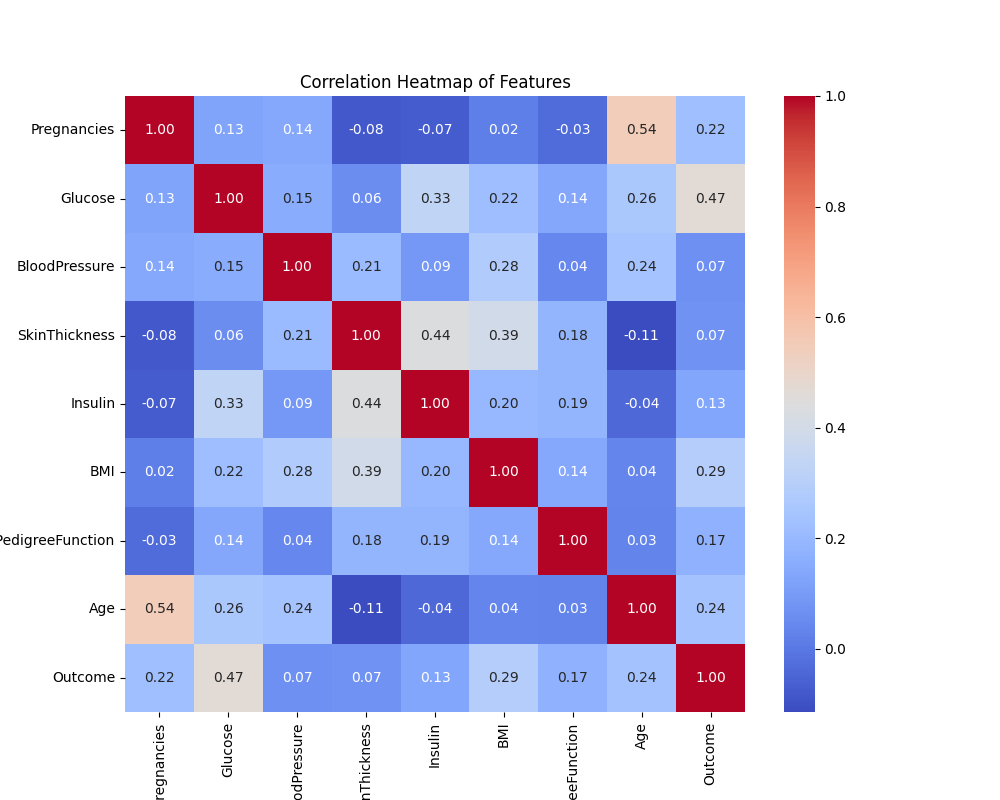
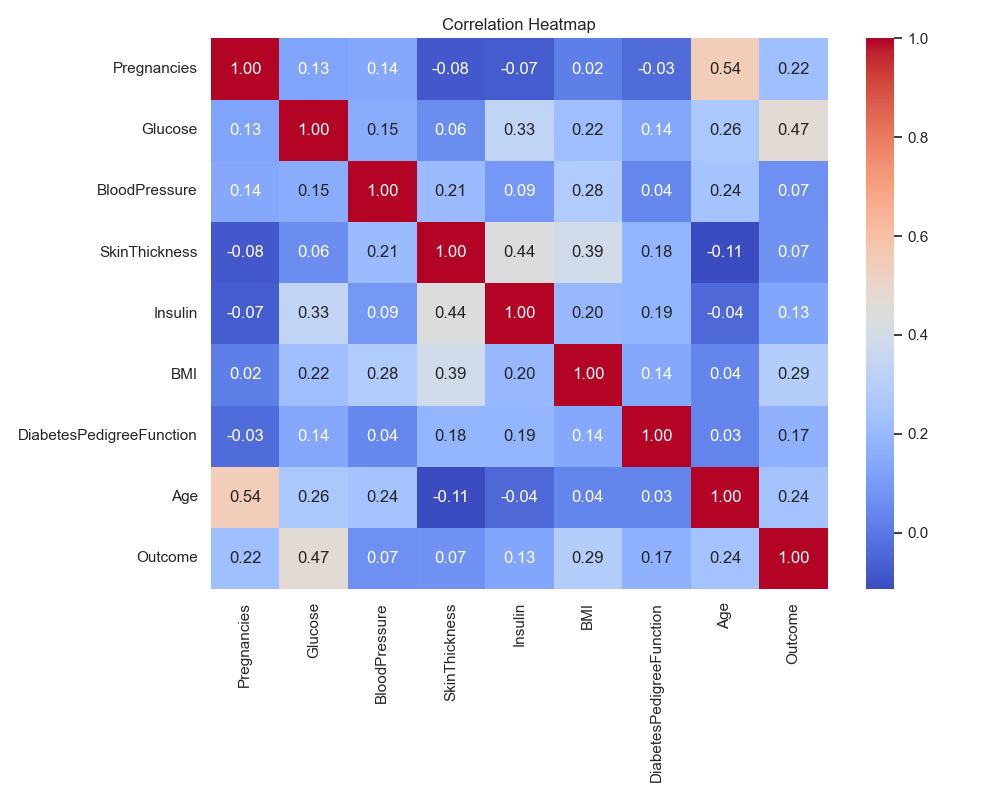
Refactor code structure for improved readability and maintainability

diff --git a/src/data_visualisation.py b/src/data_visualisation.py
@@ -1,95 +1,179 @@
+# data_visualisation.py
+"""
+Visualization utilities used by EDA and reporting.
+
+Functions:
+ - plot_outcome_distribution
+ - plot_correlation_heatmap
+ - plot_pairplot_sample
+ - plot_violin
+ - plot_time_series_if_present
+Each function saves figures to disk and returns the matplotlib Figure object.
+
+Note: pairplots or very large plots sample the data to avoid memory/time issues.
+"""
+
+from typing import Optional, List
+import os
+import logging
 import pandas as pd
 import matplotlib.pyplot as plt
 import seaborn as sns
 
+# Configure seaborn aesthetics (do not set global styles that override user's settings)
+sns.set_theme(style="whitegrid")
+logging.basicConfig(level=logging.INFO, format="%(levelname)s: %(message)s")
 
-def visualize_data(df):
+
+def ensure_dir(path: str) -> None:
+    os.makedirs(os.path.dirname(path) or ".", exist_ok=True)
+
+
+def plot_outcome_distribution(df: pd.DataFrame, target: str = "Outcome", output_path: str = "reports/outcome_distribution.png") -> plt.Figure:
     """
-    Creates visualizations for the diabetes dataset.
+    Plot and save the count distribution of a binary/multi-class target column.
+    """
+    ensure_dir(output_path)
+    plt.figure(figsize=(6, 4))
+    ax = sns.countplot(x=target, data=df)
+    ax.set_title(f"Distribution of {target}")
+    ax.set_xlabel(target)
+    ax.set_ylabel("Count")
+    plt.tight_layout()
+    plt.savefig(output_path)
+    plt.close()
+    logging.info("Saved outcome distribution to %s", output_path)
+    return plt.gcf()
 
-    This function generates various visualizations to explore and analyze
-    the diabetes dataset.
-    The plots are saved in the 'reports' directory for further analysis
-    or reporting.
+
+def plot_correlation_heatmap(df: pd.DataFrame, output_path: str = "reports/correlation_heatmap.png", annot: bool = True) -> plt.Figure:
+    """
+    Plot and save correlation heatmap for numeric DataFrame df.
+    """
+    ensure_dir(output_path)
+    corr = df.corr()
+    plt.figure(figsize=(10, 8))
+    ax = sns.heatmap(corr, annot=annot, cmap="coolwarm", fmt=".2f")
+    ax.set_title("Correlation Heatmap")
+    plt.tight_layout()
+    plt.savefig(output_path)
+    plt.close()
+    logging.info("Saved correlation heatmap to %s", output_path)
+    return plt.gcf()
+
+
+def plot_pairplot_sample(df: pd.DataFrame, cols: List[str], hue: Optional[str] = None, sample_n: int = 1000, output_path: str = "reports/pairplot.png") -> None:
+    """
+    Create a seaborn pairplot on a sampled subset (to reduce memory/time).
+    """
+    ensure_dir(output_path)
+    if len(df) > sample_n:
+        data = df[cols].sample(n=sample_n, random_state=42)
+    else:
+        data = df[cols]
+    try:
+        sns.pairplot(data, hue=hue, diag_kind="kde", corner=True)
+        plt.savefig(output_path)
+        plt.close()
+        logging.info("Saved pairplot to %s", output_path)
+    except Exception as e:
+        logging.exception("Pairplot failed: %s", e)
+
+
+def plot_violin(df: pd.DataFrame, x: str, y: str, output_path: str = "reports/violin.png") -> plt.Figure:
+    """
+    Violin plot (distribution) of y by categories in x.
+    """
+    ensure_dir(output_path)
+    plt.figure(figsize=(8, 6))
+    sns.violinplot(x=x, y=y, data=df)
+    plt.title(f"{y} distribution by {x}")
+    plt.tight_layout()
+    plt.savefig(output_path)
+    plt.close()
+    logging.info("Saved violin plot to %s", output_path)
+    return plt.gcf()
+
+
+def plot_time_series_if_present(df: pd.DataFrame, date_col_candidates: Optional[List[str]] = None, value_cols: Optional[List[str]] = None, output_path: str = "reports/time_series.png") -> None:
+    """
+    If a date-like column exists, aggregate and plot time-series trends for selected numeric columns.
 
     Args:
-        df (pandas.DataFrame): The input DataFrame containing the diabetes
-            dataset.
-
-    Returns:
-        None
-
-    Example:
-        # Assuming df is the DataFrame loaded from a CSV file
-        df = pd.read_csv('./data/diabetes.csv')
-        visualize_data(df)
+      df: input dataframe
+      date_col_candidates: list of possible date column names to check (if None, common names will be checked)
+      value_cols: list of numeric columns to plot (if None, takes first 3 numerics)
     """
-    # Check if the input DataFrame is valid
-    if df is None:
-        print("Error: The input DataFrame is None.")
+    ensure_dir(output_path)
+    # heuristics for date columns:
+    candidates = date_col_candidates or ["date", "datetime", "admission_date", "visit_date", "timestamp"]
+    date_col = None
+    for c in candidates:
+        if c in df.columns:
+            # try parse
+            try:
+                parsed = pd.to_datetime(df[c], errors="coerce")
+                if parsed.notna().sum() > 0:
+                    date_col = c
+                    df = df.copy()
+                    df["_parsed_date"] = parsed
+                    break
+            except Exception:
+                continue
+
+    if date_col is None:
+        logging.info("No parseable date column found; skipping time-series plot.")
         return
 
-    print("\n--- Data Visualisation ---")
+    numerics = value_cols or df.select_dtypes(include="number").columns.tolist()
+    numerics = [c for c in numerics if c != "_parsed_date"]
+    if not numerics:
+        logging.info("No numeric columns to plot in time-series.")
+        return
 
-    # 1. Distribution of the target variable ('Outcome')
-    plt.figure(figsize=(8, 6))
-    sns.countplot(x='Outcome', data=df)
-    plt.title('Distribution of Diabetes Outcome')
-    plt.xlabel('Outcome (0: No Diabetes, 1: Diabetes)')
-    plt.ylabel('Count')
-    plt.savefig('reports/outcome_distribution.png')
-    plt.close()  # Close the plot to avoid display issues when saving
-    print("Outcome distribution plot saved to "
-          "/reports/outcome_distribution.png")
+    # choose up to 3 columns to avoid clutter
+    plot_cols = numerics[:3]
+    ts = df.dropna(subset=["_parsed_date"] + plot_cols).set_index("_parsed_date").sort_index()
+    if ts.empty:
+        logging.info("No rows after parsing dates; skipping time-series.")
+        return
 
-    # 2. Pairplot of selected features colored by Outcome
-    selected_features = [
-        'Pregnancies', 'Glucose', 'BloodPressure', 'SkinThickness',
-        'Insulin', 'BMI', 'Age', 'Outcome'
-    ]
-    sns.pairplot(df[selected_features], hue='Outcome', diag_kind='kde')
-    plt.savefig('reports/pairplot_selected_features.png')
-    plt.close()  # Close the plot
-    print("Pairplot of selected features saved to "
-          "/reports/pairplot_selected_features.png")
-
-    # 3. Violin plot of BMI by Outcome
-    plt.figure(figsize=(8, 6))
-    sns.violinplot(x='Outcome', y='BMI', data=df)
-    plt.title('BMI Distribution by Diabetes Outcome')
-    plt.xlabel('Outcome (0: No Diabetes, 1: Diabetes)')
-    plt.ylabel('BMI')
-    plt.savefig('reports/bmi_distribution_by_outcome.png')
-    plt.close()  # Close the plot
-    print("BMI distribution by Outcome (violin plot) saved to "
-          "/reports/bmi_distribution_by_outcome.png")
-
-    # 4. Heatmap of correlations between features
-    plt.figure(figsize=(10, 8))
-    corr_matrix = df.corr()  # Calculate correlation matrix
-    sns.heatmap(corr_matrix, annot=True, cmap='coolwarm', fmt=".2f")
-    plt.title('Correlation Heatmap of Features')
-    plt.savefig('reports/correlation_heatmap.png')
-    plt.close()  # Close the plot
-    print("Correlation heatmap saved to /reports/correlation_heatmap.png")
+    agg = ts[plot_cols].resample("M").mean()  # monthly mean
+    plt.figure(figsize=(10, 6))
+    for col in plot_cols:
+        plt.plot(agg.index, agg[col], label=col)
+    plt.legend()
+    plt.title("Monthly mean time-series of selected features")
+    plt.xlabel("Date")
+    plt.ylabel("Value")
+    plt.tight_layout()
+    plt.savefig(output_path)
+    plt.close()
+    logging.info("Saved time-series plot to %s", output_path)
 
 
-if __name__ == '__main__':
-    """
-    The entry point of the script. It loads the diabetes dataset, performs
-    visualizations, and saves the resulting plots in the 'reports' directory.
+if __name__ == "__main__":
+    # quick demo if run directly
+    import argparse
+    parser = argparse.ArgumentParser(description="Create visual reports for the diabetes dataset")
+    parser.add_argument("--data", type=str, default="./data/diabetes.csv", help="Path to dataset CSV")
+    parser.add_argument("--out", type=str, default="reports", help="Output directory for plots")
+    args = parser.parse_args()
 
-    Example:
-        python visualize_data.py
-    """
     try:
-        # Load the diabetes dataset from the CSV file
-        visualisation_data = pd.read_csv('./data/diabetes.csv')
-        # Perform the data visualizations
-        visualize_data(visualisation_data)
-
+        df = pd.read_csv(args.data)
     except FileNotFoundError:
-        print(
-            "Error: 'diabetes.csv' file not found. Please ensure it is in the "
-            "'./data' directory."
-        )
+        logging.error("File not found: %s", args.data)
+        raise
+
+    # Example usage of the plotting functions
+    plot_outcome_distribution(df, target="Outcome", output_path=f"{args.out}/outcome_distribution.png")
+    num_cols = df.select_dtypes(include=["number"]).columns.tolist()
+    if len(num_cols) > 1:
+        plot_correlation_heatmap(df[num_cols], output_path=f"{args.out}/correlation_heatmap.png")
+    # pairplot for a few columns (limit to safe number)
+    pair_cols = [c for c in ["Pregnancies", "Glucose", "BloodPressure", "BMI", "Age", "Outcome"] if c in df.columns]
+    if pair_cols:
+        plot_pairplot_sample(df, cols=pair_cols, hue="Outcome" if "Outcome" in df.columns else None, output_path=f"{args.out}/pairplot.png")
+    plot_violin(df, x="Outcome" if "Outcome" in df.columns else df.columns[0], y="BMI" if "BMI" in df.columns else num_cols[0], output_path=f"{args.out}/violin.png")
+    plot_time_series_if_present(df, output_path=f"{args.out}/time_series.png")
